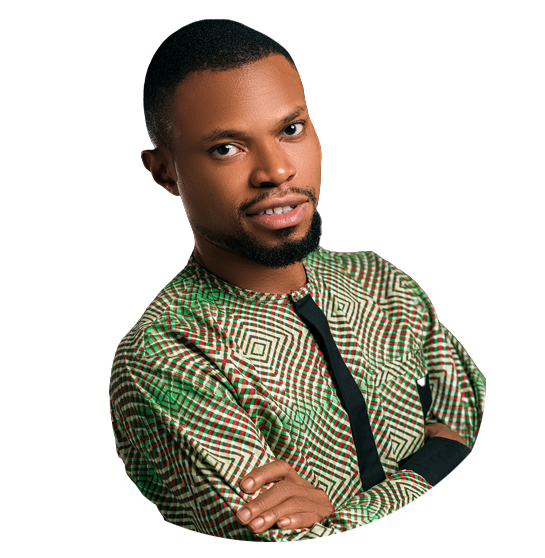
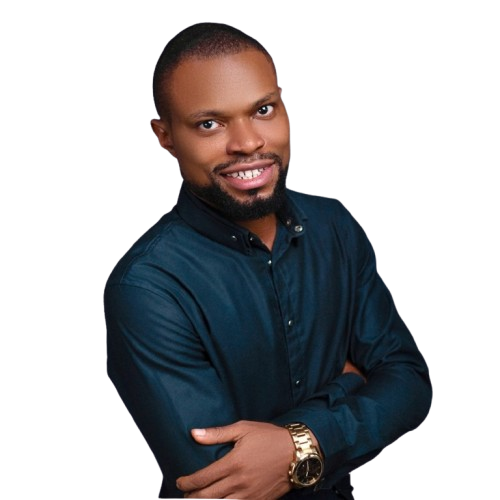
chore: update work experince

diff --git a/src/Hero/index.tsx b/src/Hero/index.tsx
@@ -1,5 +1,6 @@
 import "./index.scss";
-import MePng from "../static/image/profile-preview.png";
+// import MePng from "../static/image/profile-preview.png";
+import MePng from "../static/image/profile-image.png";
 
 interface PropInterface {
   mainTitle: JSX.Element | string;
